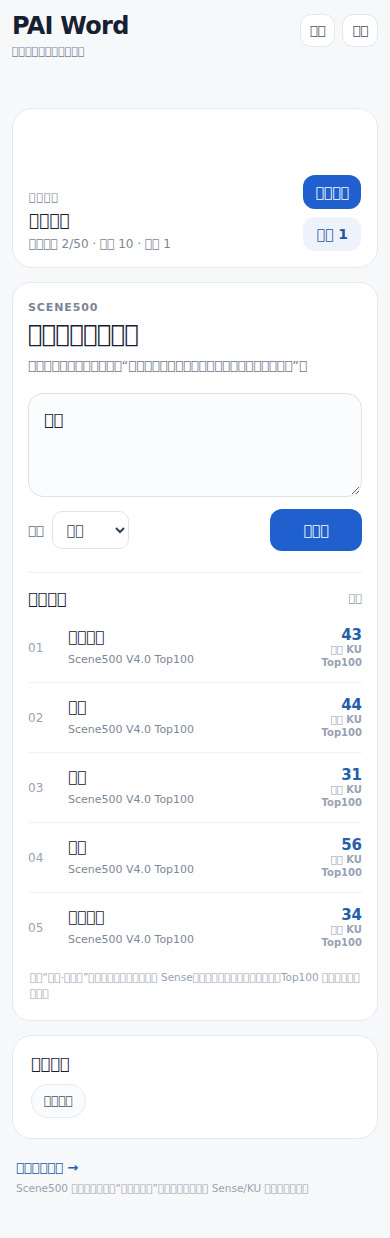
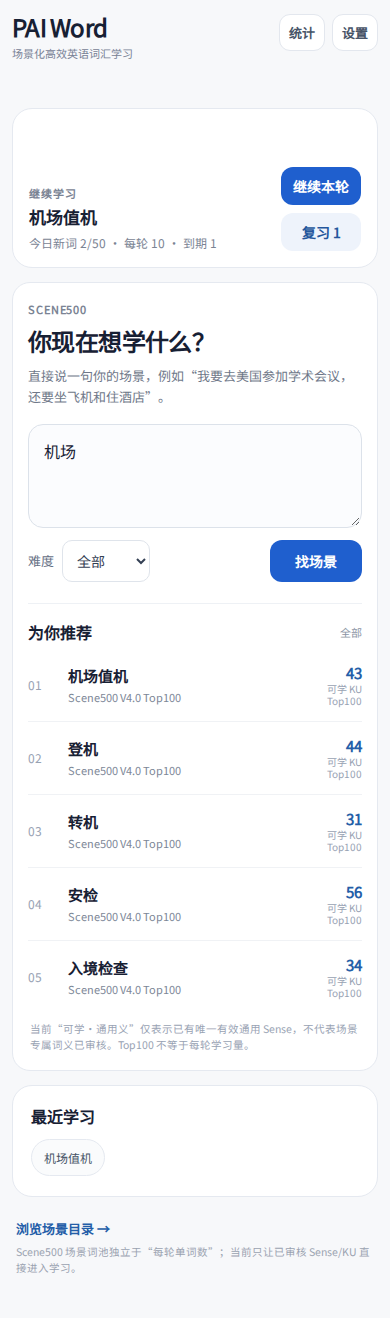
Close lightweight home QA with quota, retry, SRS and baseline performance evidence

diff --git a/rebuild-preview/learning-runtime.js b/rebuild-preview/learning-runtime.js
@@ -359,7 +359,7 @@
  }
  function restoreAnswer(k,attempt){responseMs=attempt.responseMs??null;state.revealed=true;answer({key:k,mode:'restore',score:attempt.grade||'again',advance:g=>window.rateLearning?.(g,k)})}
 
- function correct(score){if(window.getBrowsedUnit?.())return;if(!['again','hard','good'].includes(score)||!['answer','answer-paused','example','repeating'].includes(phase))return;window.PAI_AUDIO?.stop();if(timer!==null)clearTimeout(timer);timer=null;generation++;grade=score;visualGrade=score;rememberAnswer(visibleKey,score);setPendingGrade(visibleKey,score);phase='answer';if(entryMode==='swipe'){onAdvance=()=>window.rateBrowsedLearning?.(score,visibleKey)}const g=generation;later(()=>finish(g),config()[score+'Show']*1000);window.render?.()}
+ function correct(score){if(window.getBrowsedUnit?.())return;if(!['again','hard','good'].includes(score)||!['answer','answer-paused','example','repeating'].includes(phase))return;window.PAI_AUDIO?.stop();if(timer!==null)clearTimeout(timer);timer=null;generation++;try{rememberAnswer(visibleKey,score)}catch(e){phase='answer-paused';window.render?.();return}grade=score;visualGrade=score;setPendingGrade(visibleKey,score);phase='answer';if(entryMode==='swipe'){onAdvance=()=>window.rateBrowsedLearning?.(score,visibleKey)}const g=generation;later(()=>finish(g),config()[score+'Show']*1000);window.render?.()}
  function choose(score){
   if(window.getBrowsedUnit?.()||!['again','hard','good'].includes(score)||state.view!=='learning'||document.hidden)return;
   if(phase==='question'){
@@ -710,7 +710,7 @@
  window.reveal=()=>{if(!active||loading||error||!unit())return;PAI_TAP_FLOW.tap()};
  window.retryLearningLoad=()=>showCurrent();
  let browseIndex=null,browseToken=0,browsedUnit=null;
- const cycleKeys=()=>[...new Set([...(state.learningSession?.completed||[]),...(state.learningSession?.queue||[])])].filter(byKey);
+ const cycleKeys=()=>[...new Set([...(state.learningSession?.completed||[]),...Object.keys(state.learningSession?.seen||{}),state.learningSession?.queue?.[0]])].filter(byKey);
  window.getBrowsedUnit=()=>browsedUnit;
  window.getVisibleLearningUnit=()=>browsedUnit||unit();
  window.restartLearningQuestion=()=>{if(active)showCurrent()};

diff --git a/docs/qa/v21-light-home.md b/docs/qa/v21-light-home.md
@@ -54,5 +54,58 @@ This implementation continues using the existing preview localStorage record,
 not the unintegrated IndexedDB transaction-store. Cross-tab simultaneous writers
 and offline/update/rollback need separate validation before production release.
 Real iPhone Safari, audio output/gesture unlocking and Safari memory are untested.
-Headless Linux currently lacks CJK fonts; screenshot proves geometry only, not
-Chinese glyph rendering quality. No public development deployment was made.
+Final screenshot uses locally provided Noto Sans SC in the test page; Chinese
+glyphs and mobile-width layout were visually inspected. Font injection is test-only
+and excluded from performance runs. No public development deployment was made.
+
+
+## Final QA closeout
+
+Additional executed checks: 20 simultaneous learning intents; audio-script partial
+initialization failure/retry without duplicate runtime; real multi-sense record
+reinforcement and review entry; Top100 shard failure/retry; retained SRS one-day
+interval for a known KU; 20 actual ensureAttempt cases spanning all daily quotas,
+existing-other-KU, already introduced headword, exhausted quota and failed save.
+History now includes previously attempted cards, not unseen future queue cards.
+
+Performance comparison uses the same local HTTP server (gzip text, max-age=3600),
+headless Chromium 153, three runs. Baseline is 4e58fc9. Its unused external pako
+fallback was stubbed because native DecompressionStream is present; routing
+turns off HTTP cache for baseline, so only cold baseline is compared.
+Current cold/warm runs have no routing. Ready marker starts at navigation, not
+bootstrap entry; automation verifies search works and records two animation
+frames afterward. Exact samples are in v21-browser-results.json. Resource byte
+sums cover subresources, not the HTML navigation. No duplicate home requests.
+
+Run locally from repository root:
+
+```
+node scripts/build-v21-home-ku-metadata.mjs
+node scripts/build-v21-home-index.mjs
+node scripts/test-v21-all.mjs
+PAI_CHROMIUM=/path/to/chromium node scripts/test-v21-browser.mjs
+```
+
+Playwright and a Chromium executable are external test dependencies. Optional
+PAI_BASELINE_ROOT points to an extracted 4e58fc9 tree; PAI_FONT_ROOT points to
+@fontsource/noto-sans-sc for the screenshot only. No GitHub Actions are used.
+
+Development integration passes the recorded Node/Chromium gates. Production
+release is NOT approved by this report: real Safari, simultaneous tab writes,
+offline/update and rollback are unverified. Preview worker remains network-only.
+The current GitHub Pages URLs are not deployments of this development commit.
+
+Final measured medians (2026-10-21, local environment only):
+
+| Metric | Baseline 4e58fc9 | Integrated branch |
+|---|---:|---:|
+| Cold complete-home observation | 897.4 ms | 165.7 ms |
+| Cold interactive marker | not equivalent / not used | 88.8 ms |
+| Warm complete-home observation | not measured | 99.8 ms |
+| Warm interactive marker | not measured | 56.0 ms |
+| Cold home subresource bytes | about 1.30 MB | 384,129 B |
+| Home heavy requests | 22 | 0 |
+| First learning entry | not compared | 846 ms |
+
+Cold complete-home observation fell about 81.5% and subresource transfer about
+70.5% in this controlled test. These are not iPhone/public-network guarantees.
